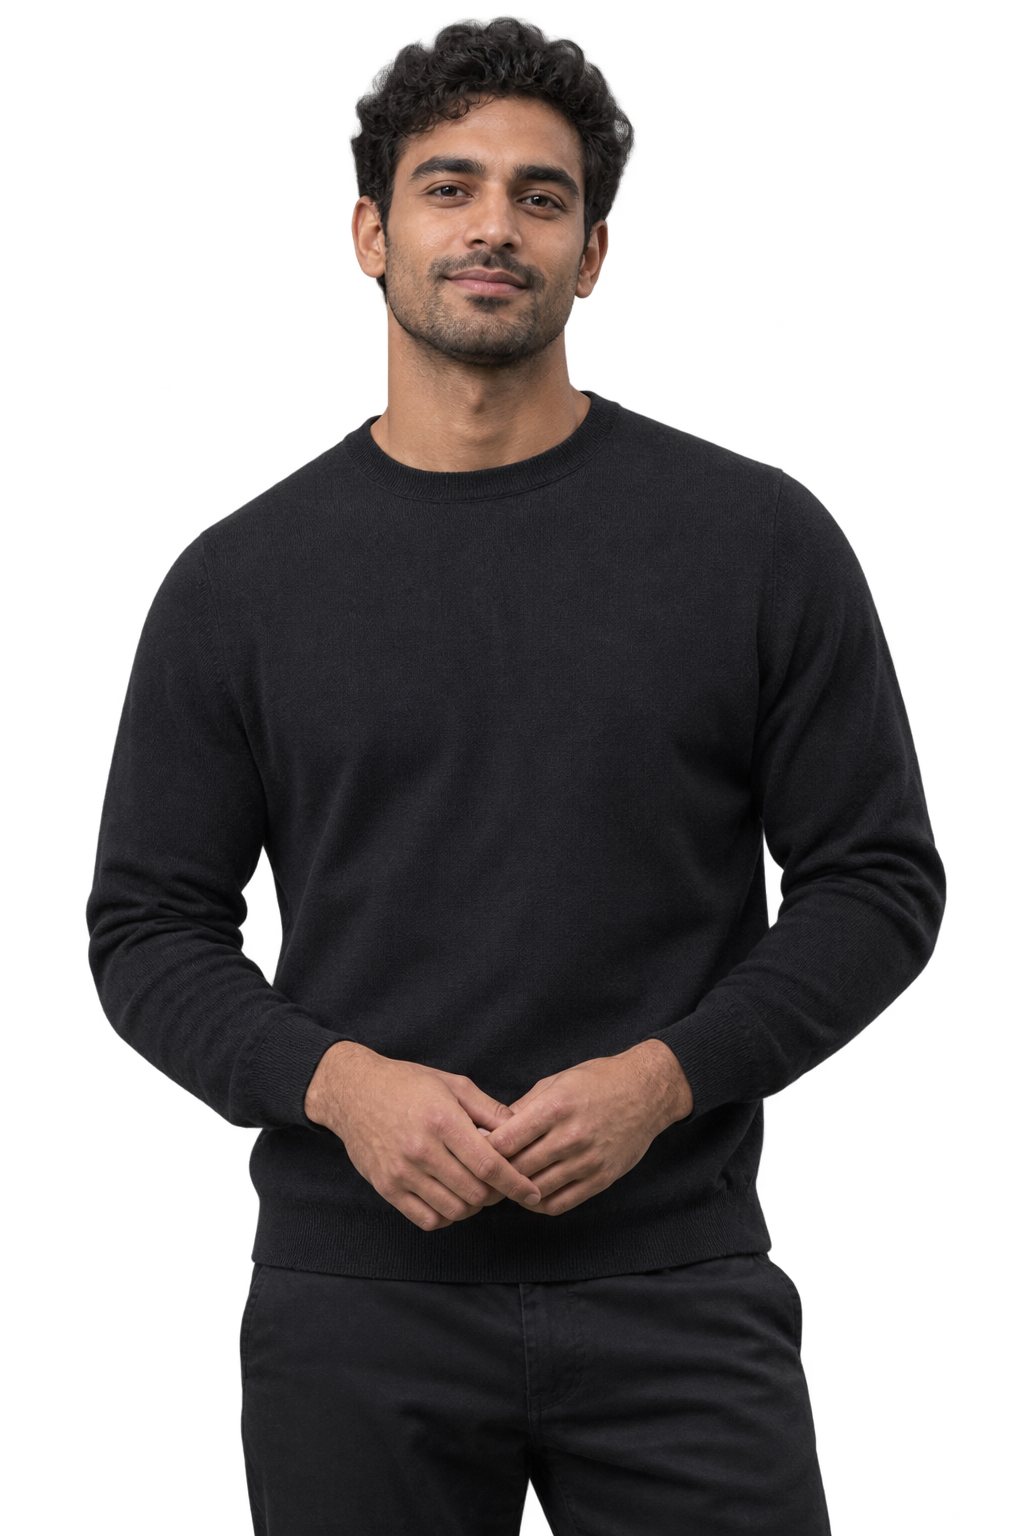
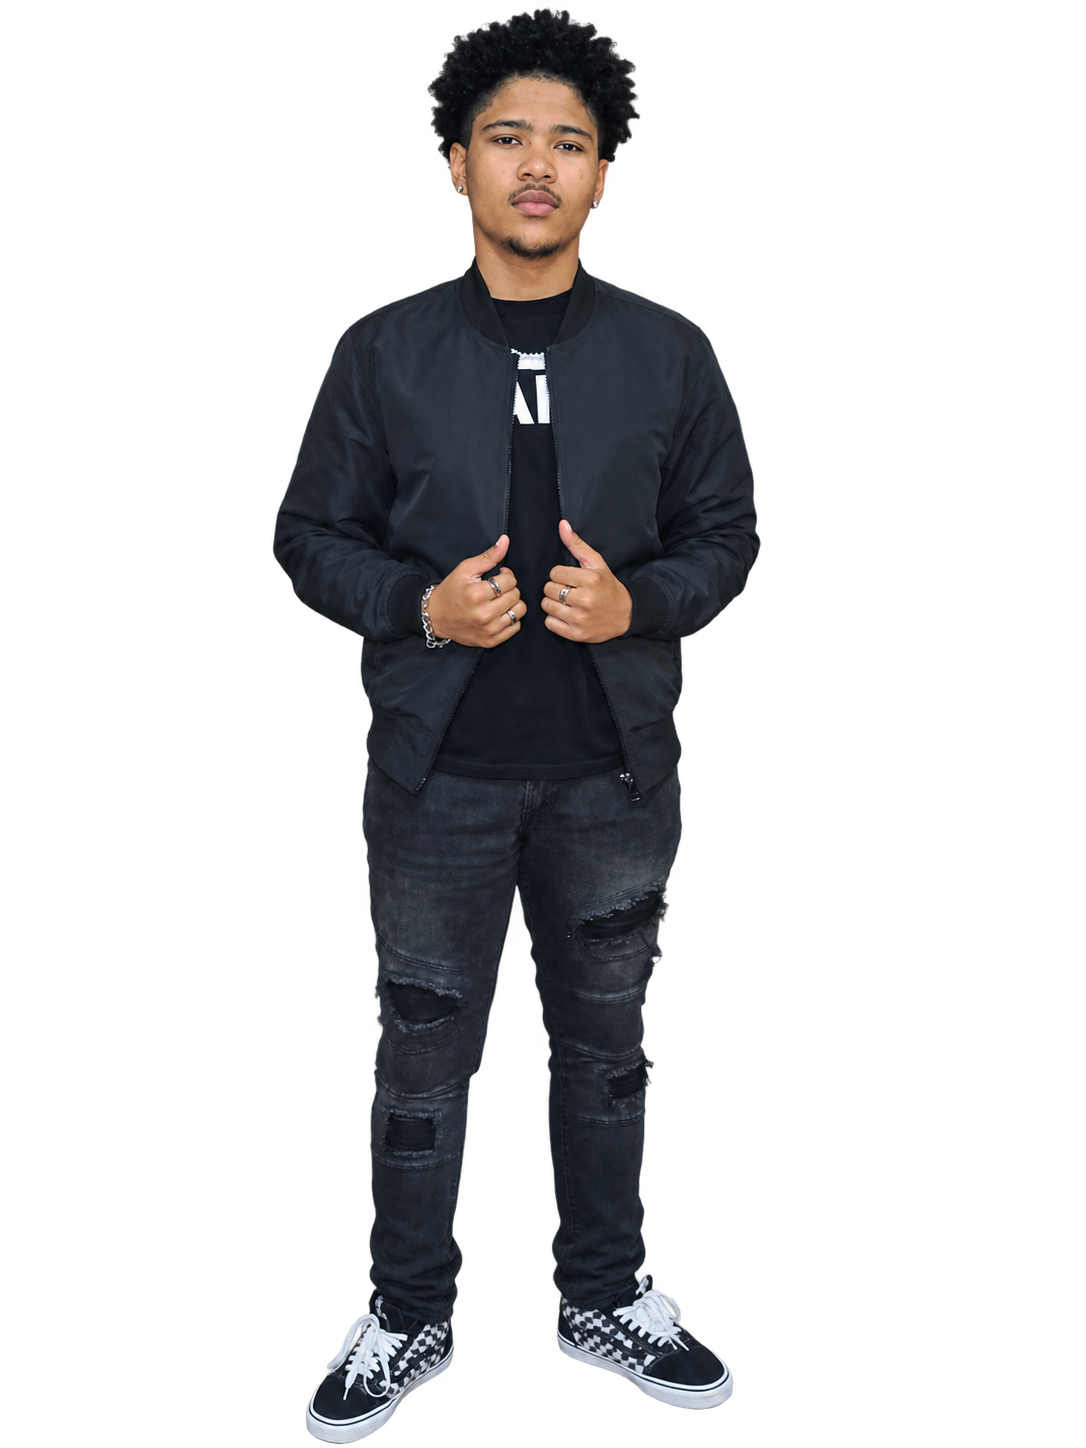
Add project screenshots, personal portrait and vehicle booking details

diff --git a/Portfolio/src/data/content.ts b/Portfolio/src/data/content.ts
@@ -38,8 +38,8 @@ export const portfolio = {
   edition: '2026',
   portrait: {
     src: '/images/portrait.png',
-    alt: 'Fictional model used as a placeholder portrait for Geraldo’s portfolio',
-    caption: 'Placeholder portrait · Yours goes here',
+    alt: 'Portrait of Geraldo Koopman wearing a black jacket, with the background removed',
+    caption: 'Geraldo Koopman · Software Developer',
   },
   introduction: 'I turn ideas into practical digital experiences.',
   description: 'I build web applications with C#, ASP.NET Core, React and TypeScript. Bringing structure to the complex, and care to the details people interact with.',
@@ -51,7 +51,7 @@ export const portfolio = {
     workLabel: 'Selected work',
     workHeading: ['A few things', 'I’ve been building.'],
     workDescription: ['From an idea to an interface.', 'Three projects to explore.'],
-    workNote: 'Selected projects. Some details and preview images are placeholders.',
+    workNote: 'Selected projects. Vehicle Booking System uses an illustrative preview; Build & Hire and G-Stock show application screenshots.',
     aboutLabel: 'The person behind the code',
     aboutHeading: ['Curious by nature.', 'Developer by craft.'],
     technologiesLabel: 'Tools of the trade',
@@ -71,19 +71,40 @@ export const portfolio = {
 export const projects: Project[] = [
   {
     id: 'vehicle-booking', name: 'Vehicle Booking System', category: 'Vehicle Booking Application', year: '2026',
-    description: 'Demo entry · Vehicle booking details to be added',
+    description: 'Connecting companies and vehicle owners for rental bookings',
     image: '/images/vehicle-booking-preview.svg', color: '#BFA1AD',
-    summary: 'Placeholder summary: a vehicle booking system. Replace this text with the actual purpose, booking features and context of your project. The interface shown is an illustrative demo, not a screenshot of the real product.',
-    contribution: 'Placeholder: describe your role in the Vehicle Booking System, the parts you built and the decisions you made. Add only verified project details before publishing your final portfolio.',
-    technologies: ['C#', 'ASP.NET Core', 'React', 'TypeScript', 'SQL Server'], demoUrl: null,
+    imageAlt: 'Illustrative Vehicle Booking System interface, not a screenshot of the application',
+    imageCaption: 'Illustrative preview · Actual application screenshots to be added',
+    summary: 'Vehicle Booking System is a full-stack web application connecting companies with vehicle owners to manage rentals in one place. Companies can search available vehicles, book rental dates, view calculated costs and track or cancel bookings. Owners manage vehicle listings, images, daily rates and availability, while administrators oversee users, vehicles and booking approvals.',
+    contributionLabel: 'Implementation',
+    contribution: 'Tailored dashboards support company, vehicle owner and administrator workflows. Booking date validation and availability checks prevent overlapping reservations. A React and JavaScript frontend uses Axios to communicate with an ASP.NET Core REST API, with Entity Framework Core and PostgreSQL for relational data storage. The project demonstrates frontend development, REST API design, relational data modelling and business logic implementation.',
+    technologies: ['React', 'JavaScript', 'Vite', 'Axios', 'C#', 'ASP.NET Core', 'Entity Framework Core', 'PostgreSQL'],
+    technologiesVerified: true,
+    demoUrl: null,
   },
   {
     id: 'g-stock', name: 'G-Stock', category: 'Inventory & Employee Management', year: '2026',
     description: 'Warehouse stock, low-stock alerts and employee access in one place',
-    image: '/images/g-stock-preview.svg', color: '#EEDAE6',
-    imageAlt: 'Illustrative G-Stock inventory interface, not a screenshot of the live application',
-    imageCaption: 'Illustrative preview · Actual application screenshots to be added',
-    screenshots: [], // Add captured images here: { src, alt, caption }.
+    image: '/images/g-stock-inventory.png', color: '#EEDAE6',
+    imageAlt: 'G-Stock inventory screen with stock quantities, storage locations, reorder levels and low-stock alerts',
+    imageCaption: 'G-Stock · Inventory and stock levels',
+    screenshots: [
+      {
+        src: '/images/g-stock-sign-in.png',
+        alt: 'G-Stock dark theme sign-in page with email and password fields and a remember-me option',
+        caption: 'Staff access · Sign in to the G-Stock workspace',
+      },
+      {
+        src: '/images/g-stock-employee-workspace.png',
+        alt: 'G-Stock employee workspace showing a profile card, navigation to inventory and warehouses, and low-stock alerts',
+        caption: 'Employee account · Profile, workspace navigation and stock alerts',
+      },
+      {
+        src: '/images/g-stock-inventory.png',
+        alt: 'G-Stock brand inventory with item search, stock status filters, quantities, reorder levels and quantity update actions',
+        caption: 'Inventory · Search items, monitor low stock and update quantities',
+      },
+    ],
     summary: 'G-Stock is a full-stack inventory and employee management application that gives teams one place to manage warehouse stock and staff accounts. Products are organised by warehouse and brand, with quantities, storage locations, product images and low-stock alerts. Employees record stock changes, stock managers organise inventory, and staff managers control employee access. Activity history records stock and account changes for traceability, while light and dark themes and workspace restoration support everyday use.',
     contributionLabel: 'Implementation',
     contribution: 'A typed React and TypeScript interface connects to an ASP.NET Core REST API and PostgreSQL database. Role permissions are enforced in the API and interface, with session revocation when account types change. Database transactions and stock validation protect concurrent updates and prevent deletion of inventory that still holds stock. Authentication uses JWT access tokens, HttpOnly refresh cookies, Argon2id password hashing and CSRF protection. Automated frontend tests and backend integration checks cover authentication, permissions, stock operations and account changes.',
@@ -94,9 +115,26 @@ export const projects: Project[] = [
   {
     id: 'build-hire', name: 'Build & Hire', category: 'Construction Project Management', year: '2026',
     description: 'Connecting customers, construction companies and their teams',
-    image: '/images/build-hire-preview.svg', color: '#BFA1AD',
-    imageAlt: 'Illustrative Build & Hire construction concept, not a screenshot of the application',
-    imageCaption: 'Illustrative preview · Actual application screenshots to be added',
+    image: '/images/build-hire-customer-workspace.png', color: '#BFA1AD',
+    imageAlt: 'Build & Hire customer workspace home with company discovery, project tracking and a simulated payment workflow',
+    imageCaption: 'Build & Hire · Customer workspace home',
+    screenshots: [
+      {
+        src: '/images/build-hire-customer-workspace.png',
+        alt: 'Build & Hire customer home with company discovery, project tracking and a simulated payment workflow',
+        caption: 'Customer account · Workspace home and project journey',
+      },
+      {
+        src: '/images/build-hire-marketplace.png',
+        alt: 'Build & Hire customer marketplace with approved company accounts, company search and links to company profiles',
+        caption: 'Customer account · Browse approved companies and choose a project partner',
+      },
+      {
+        src: '/images/build-hire-create-project.png',
+        alt: 'Build & Hire project request form with company selection, a work description and steps for dates, location and review',
+        caption: 'Customer account · Create a project request with a brief, dates and location',
+      },
+    ],
     summary: 'Build & Hire is a full-stack construction project platform that connects customers with approved companies, from the first request to the final project update. Customers can discover companies, request work, accept quotes and track progress. Companies manage requests, assign workers and showcase completed projects, while administrators oversee company approvals, accounts and simulated EFT payment reviews. Payments are simulated; the application does not transfer money.',
     contributionLabel: 'Implementation',
     contribution: 'A responsive React and TypeScript frontend provides dedicated customer, company, administrator and super administrator workspaces. An ASP.NET Core REST API separates endpoints, application services, domain models and persistence, with Entity Framework Core and PostgreSQL for data storage. JWT authentication and role and ownership checks protect account-specific records. The project includes image uploads, regression and browser workflow checks, GitHub Actions verification and an API Dockerfile.',
